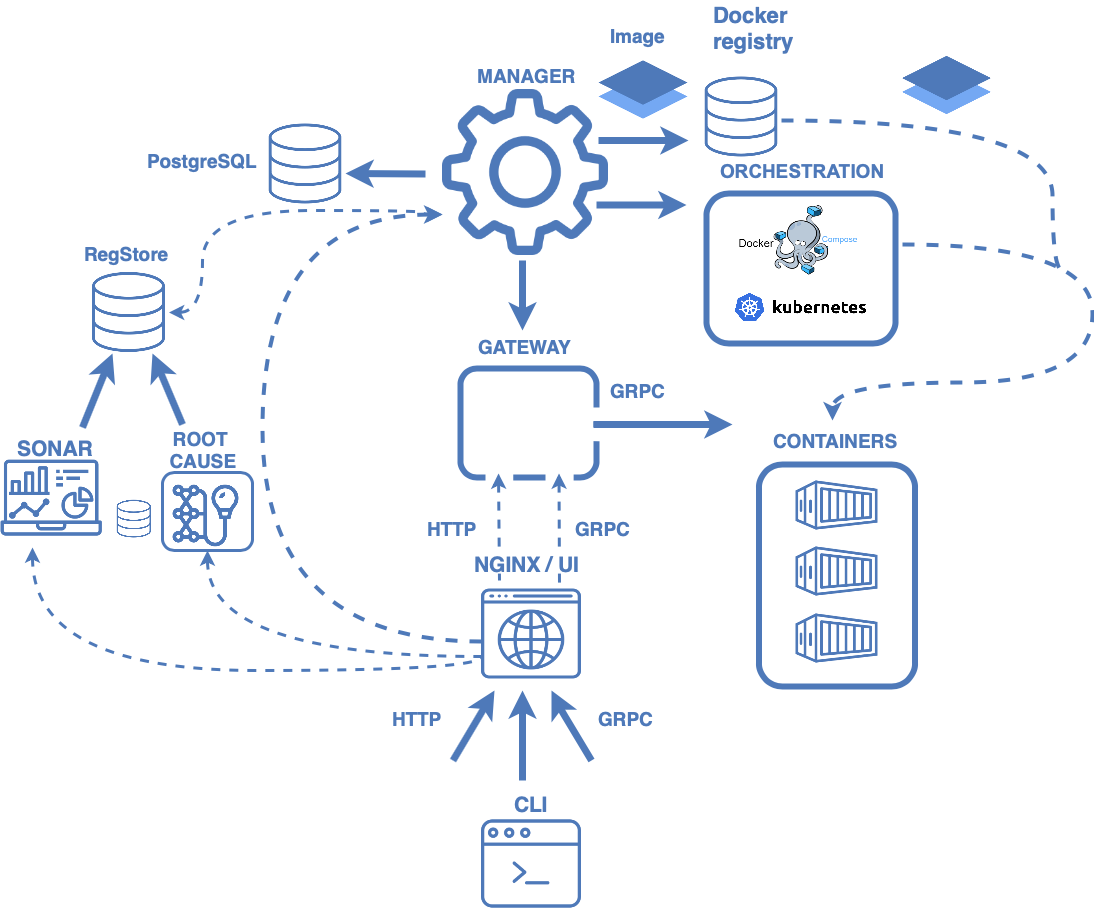
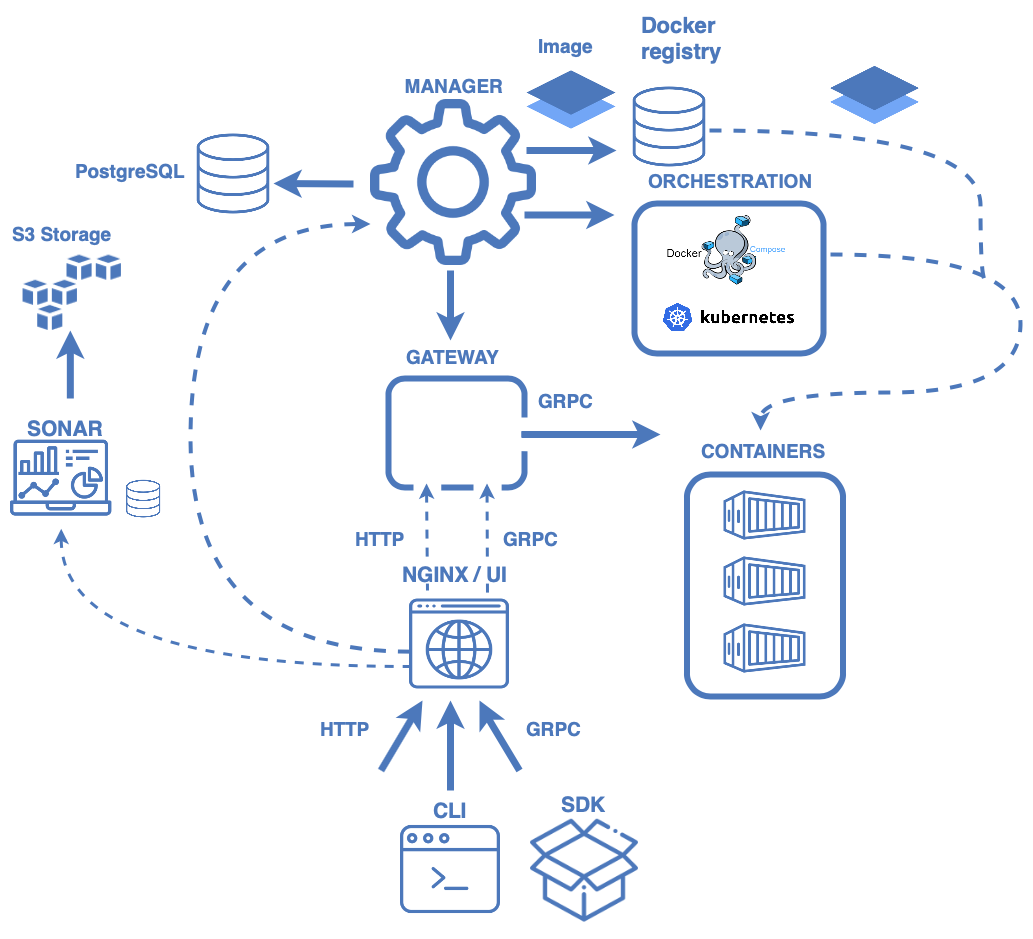
Added SDK into architecture scheme (#314)
* Added SDK into architecture scheme

* Update installation instructions (#315)

* Update README.md

* Update installation instructions

* Added SDK into architecture scheme

* Update diagram

* Add architecture description

* Update index.md

diff --git a/docs/src/main/paradox/overview/architecture.md b/docs/src/main/paradox/overview/architecture.md
@@ -1,0 +1,28 @@
+# Architecture
+
+Hydrosphere is composed out of several microservices, united to efficiently serve and monitor machine learning models in production.
+
+![](.../architecture.png)
+
+
+@@toc { depth=2 }
+
+## Services
+
+On a high level we can outline the following services. 
+
+### Manager
+
+Manager is a service component, responsible for managing Hydrosphere entities (models and applications), provisioning infrastructure resources and providing interfaces for interacting with Hydrosphere entities. 
+
+### Gateway
+
+Gateway is a service component responsible for handling prediction requests and routing them among model services. Gateway maps model endpoint name to a corresponding container. Whenever it receives a request it communicates with that container by gRPC protocol.
+
+### UI
+
+UI is a service component responsible for showing off user-friendly interface for models, applications as well as monitoring charts and profiles.
+
+### Sonar
+
+Sonar is a service component responsible for monitoring your models during inference phase. It allows you to evaluate how your model behaves under production load, i.e. is there a concept drift occurred in the production data (so your model needs to be retrained); how many outliers are there in the production data; how distribution of your training data is compared with the distribution of the production data?

diff --git a/docs/src/main/paradox/overview/index.md b/docs/src/main/paradox/overview/index.md
@@ -5,6 +5,7 @@
 
 * [What is Hydrosphere?](what-hydrosphere.md)
 * [Concepts](concepts.md)
+* [Architecture](architecture.md)
 * [Roadmap](roadmap.md)
 
 @@@
